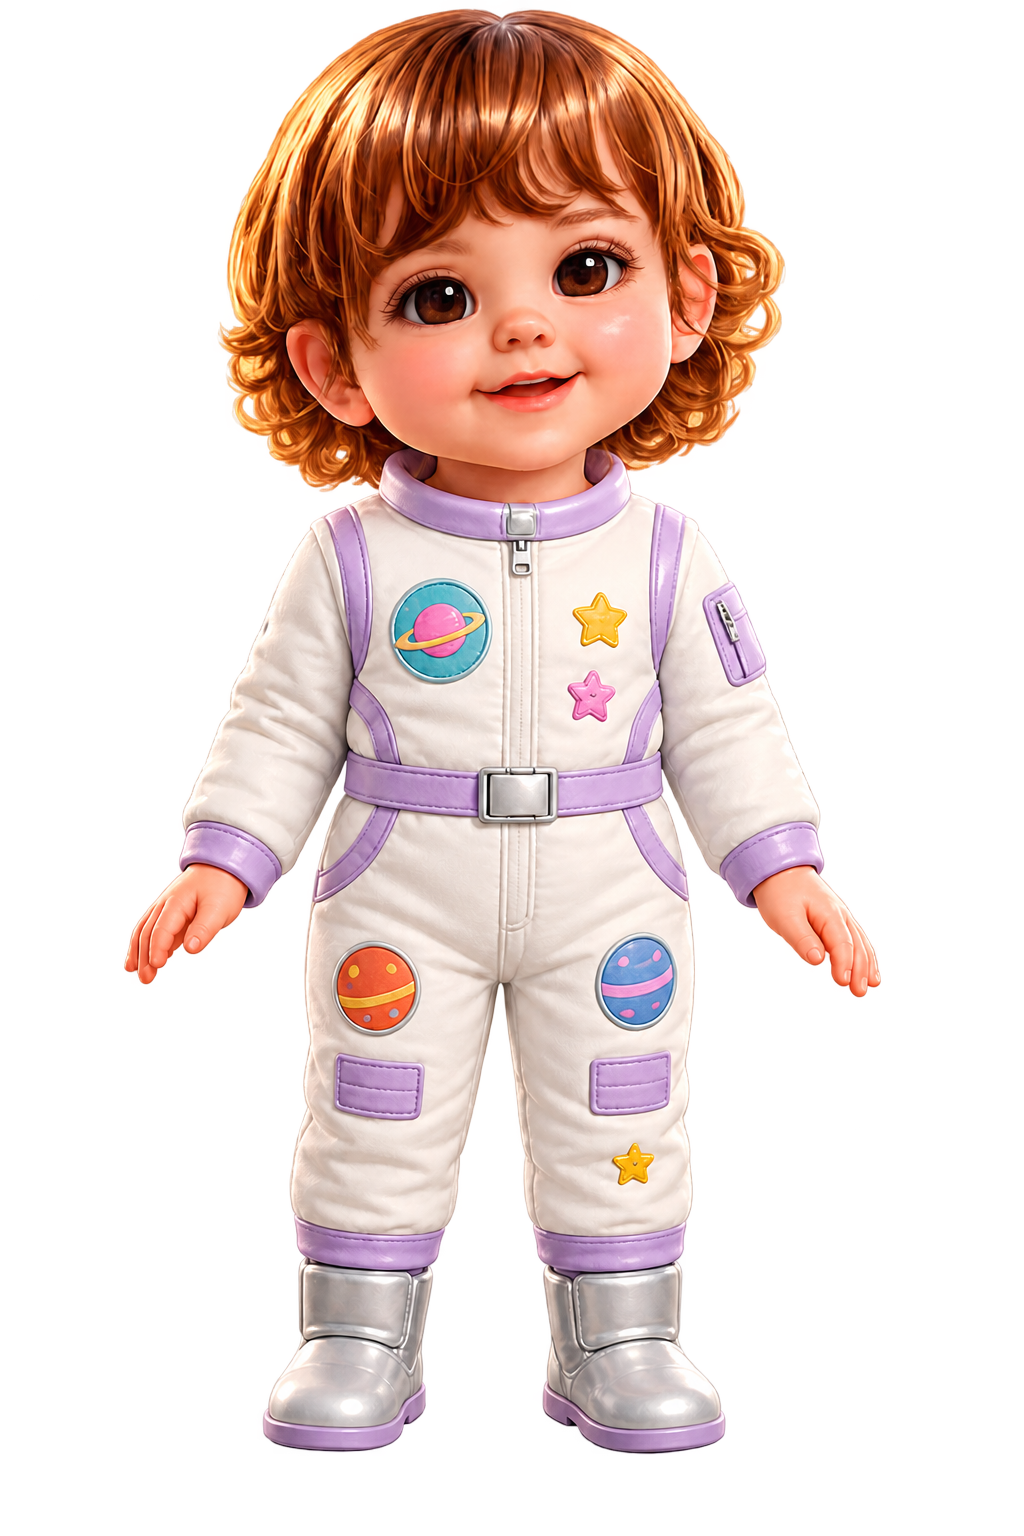
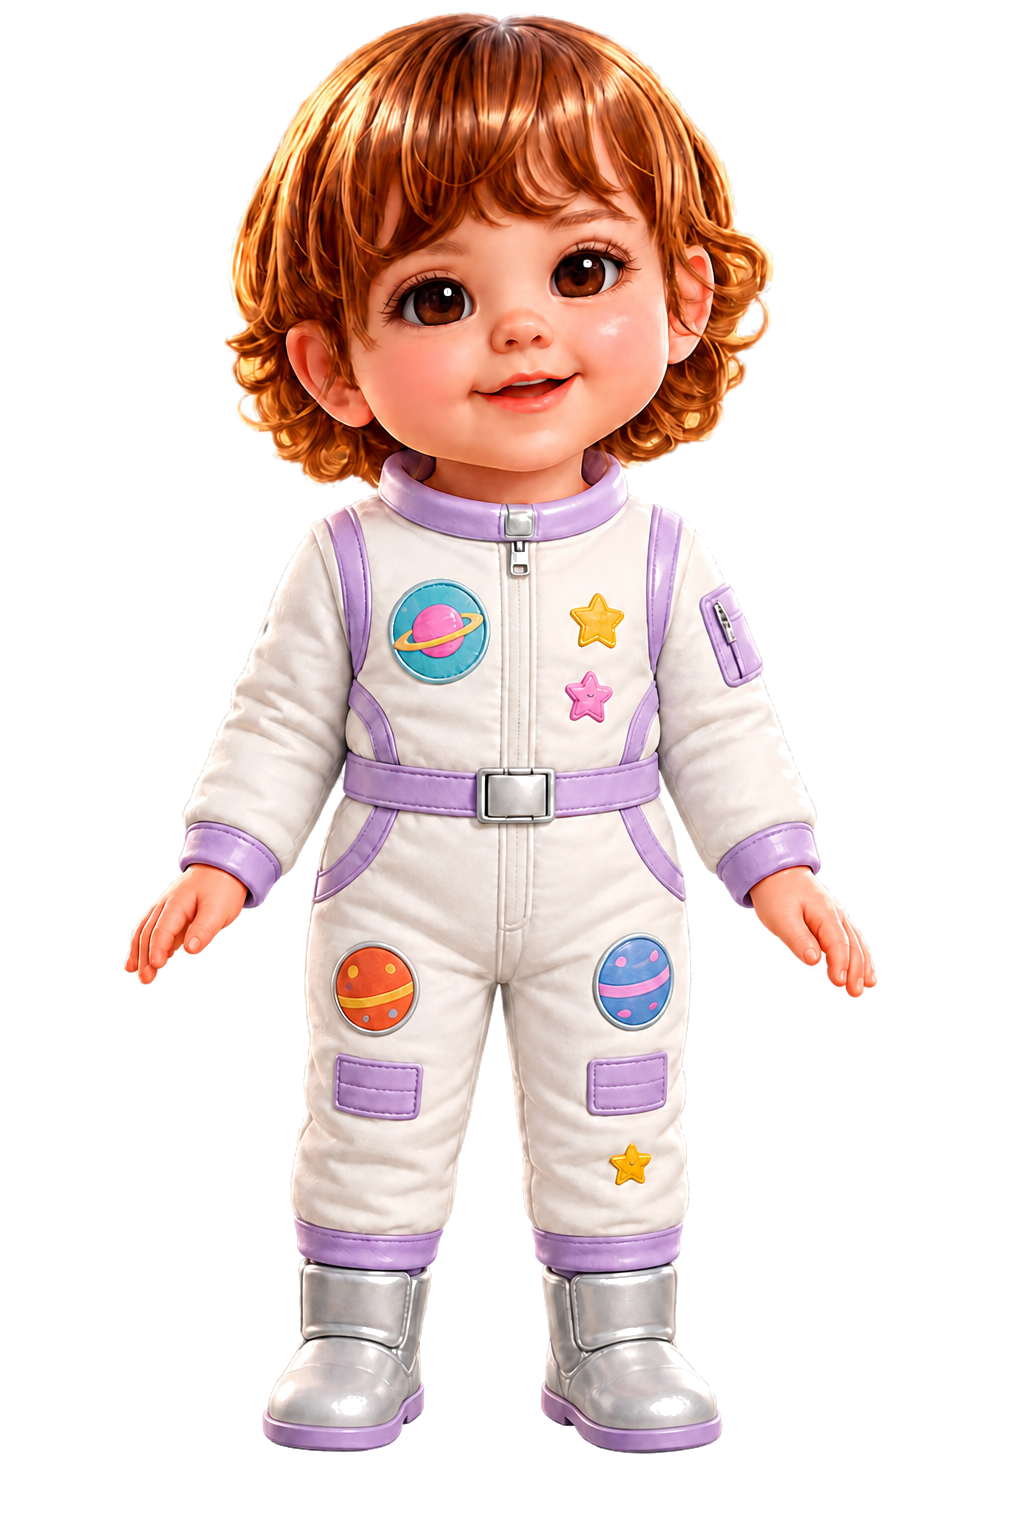
Improve mobile home and astronaut transparency

diff --git a/public/app/styles.css b/public/app/styles.css
@@ -78,3 +78,7 @@
 /* Portada móvil: mascota fija a la izquierda, juegos desplazables a la derecha. */
 @media(max-width:560px){.app-shell{width:100%;padding:3px 8px 18px}.hero{position:relative;z-index:2}.home{display:grid!important;grid-template-columns:minmax(132px,42vw) minmax(0,1fr)!important;align-items:start!important;gap:8px!important;width:100%!important;margin-top:8px!important}.home .mascot-button{grid-column:1;order:initial!important;position:sticky!important;top:12px!important;width:100%!important;max-width:190px!important;margin:0!important;align-self:start!important}.home .mascot-button .mascot{display:block!important;width:100%!important;max-height:calc(100dvh - 185px)!important;object-fit:contain!important;object-position:center top!important}.home .menu{grid-column:2;order:initial!important;display:grid!important;grid-template-columns:1fr!important;gap:8px!important;width:100%!important;min-width:0;margin:0!important}.home .menu-card,.home .menu-card--songs,.home .menu-card--stories,.home .menu-card--dress{grid-column:1!important;width:100%!important;min-height:116px!important;padding:5px 7px 8px!important;justify-self:stretch!important}.home .menu-card img{height:72px!important}.home .menu-card span{text-align:center!important;font-size:.92rem!important}}
 @media(max-width:380px){.home{grid-template-columns:116px minmax(0,1fr)!important}.home .mascot-button{width:116px!important}.home .menu-card,.home .menu-card--songs,.home .menu-card--stories,.home .menu-card--dress{min-height:108px!important}.home .menu-card img{height:65px!important}}
+
+/* Portada móvil final: más espacio para la niña y tarjetas estrechas. */
+@media(max-width:560px){body{background-position:center bottom}.home{grid-template-columns:minmax(0,56vw) minmax(0,40vw)!important;gap:4px!important}.home .mascot-button{position:sticky!important;top:calc(100dvh - 430px)!important;width:100%!important;max-width:250px!important;margin-top:clamp(150px,27vh,245px)!important;justify-self:center!important;z-index:2}.home .mascot-button .mascot{width:100%!important;max-height:410px!important;object-position:center bottom!important}.home .menu{gap:7px!important}.home .menu-card,.home .menu-card--songs,.home .menu-card--stories,.home .menu-card--dress{min-height:100px!important;padding:3px 5px 6px!important;border-radius:18px!important}.home .menu-card img{height:61px!important}.home .menu-card span{font-size:.86rem!important}.home .menu-card small{display:none!important}}
+@media(max-width:380px){.home{grid-template-columns:minmax(0,55vw) minmax(0,41vw)!important}.home .mascot-button{width:100%!important;max-width:210px!important;top:calc(100dvh - 370px)!important}.home .mascot-button .mascot{max-height:350px!important}.home .menu-card,.home .menu-card--songs,.home .menu-card--stories,.home .menu-card--dress{min-height:94px!important}.home .menu-card img{height:56px!important}}

diff --git a/public/app/index.html b/public/app/index.html
@@ -6,7 +6,7 @@
   <meta name="theme-color" content="#7357e8">
   <meta name="description" content="Juegos educativos para aprender animales, colores, formas, números y vocales.">
   <title>Hola Peque · Aprende jugando</title>
-  <link rel="stylesheet" href="styles.css?v=20260828-3">
+  <link rel="stylesheet" href="styles.css?v=20260828-4">
 </head>
 <body>
   <main class="app-shell">
@@ -194,7 +194,7 @@
     </article>
   </section>
   <div id="audio-status" class="sr-only" aria-live="polite"></div>
-  <script src="script.js?v=20260828-3"></script>
+  <script src="script.js?v=20260828-4"></script>
 </body>
 </html>
 
